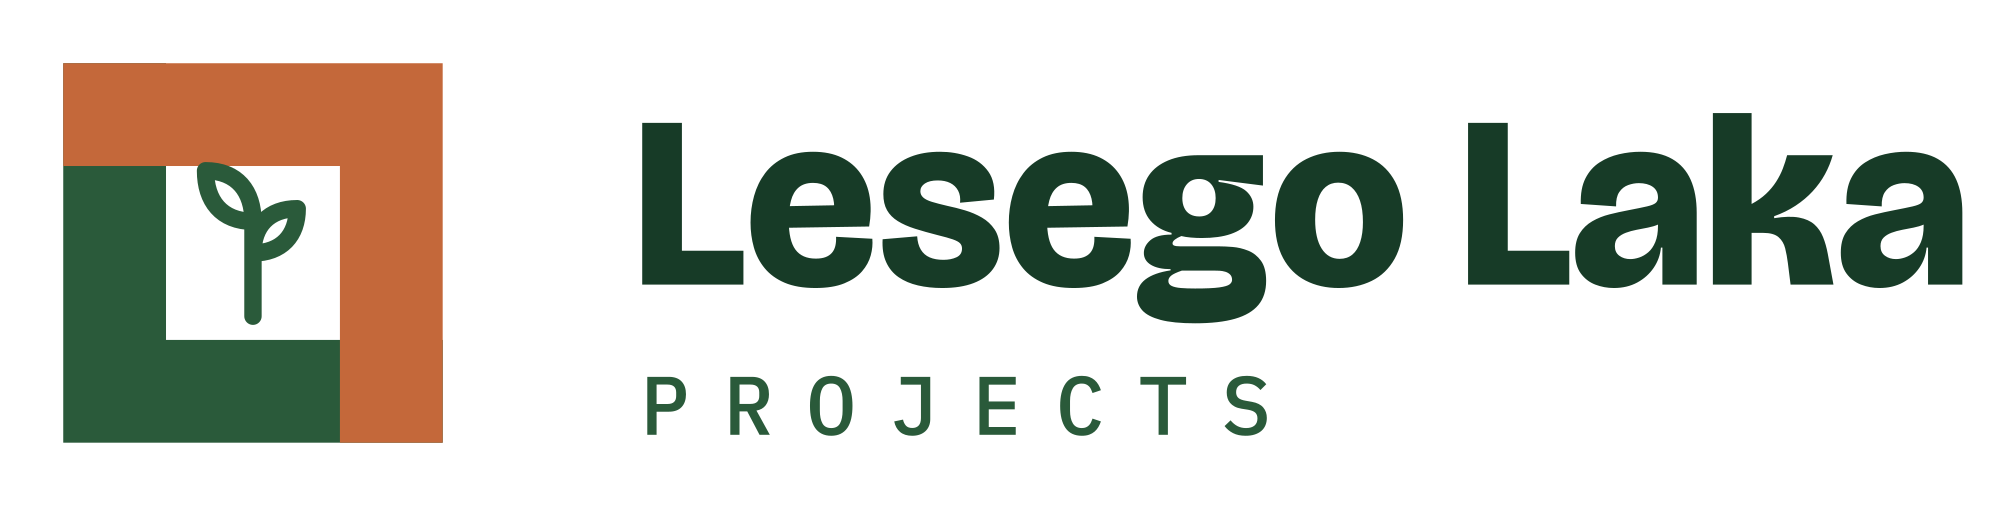
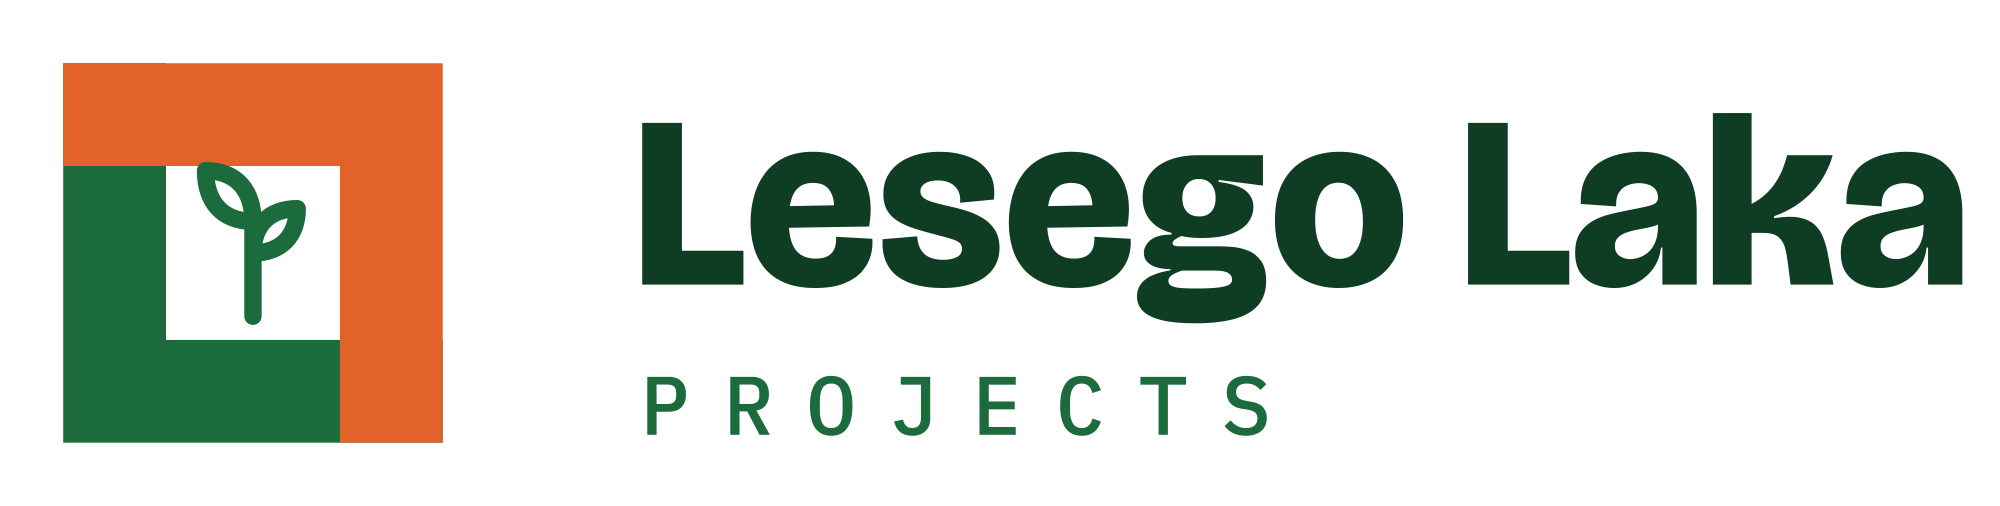
Regenerate brand files in Deep Veld & Clay colours
Claude-Session: https://claude.ai/code/session_01JXqpHJvJ2BT5MaffFMdaMg

Changed region(s): [[0.031, 0.1186, 0.248, 0.8893]]

diff --git a/README.md b/README.md
@@ -22,5 +22,5 @@ Logo files are in `brand/`:
 - `social-profile-1080.png` – Instagram / WhatsApp profile picture
 - `favicon.svg`, `favicon-32.png`, `apple-touch-icon.png` – browser and phone icons
 
-Colours: Veld `#173B27`, Leaf `#2A5A3A`, Red Soil `#C4683A`, Sage `#A9C4AE`, Sand `#EFE7DC`, Lime `#F5F3EE`.
+Colours: Deep Veld `#0E3D24`, Leaf `#1B6B3D`, Clay `#E2622A`, Mint `#7FD49C` (on dark), Mint tint `#E3F2E7`, Cream `#FAF4EA`.
 Typefaces: Bricolage Grotesque (headings), Public Sans (body), IBM Plex Mono (labels).
